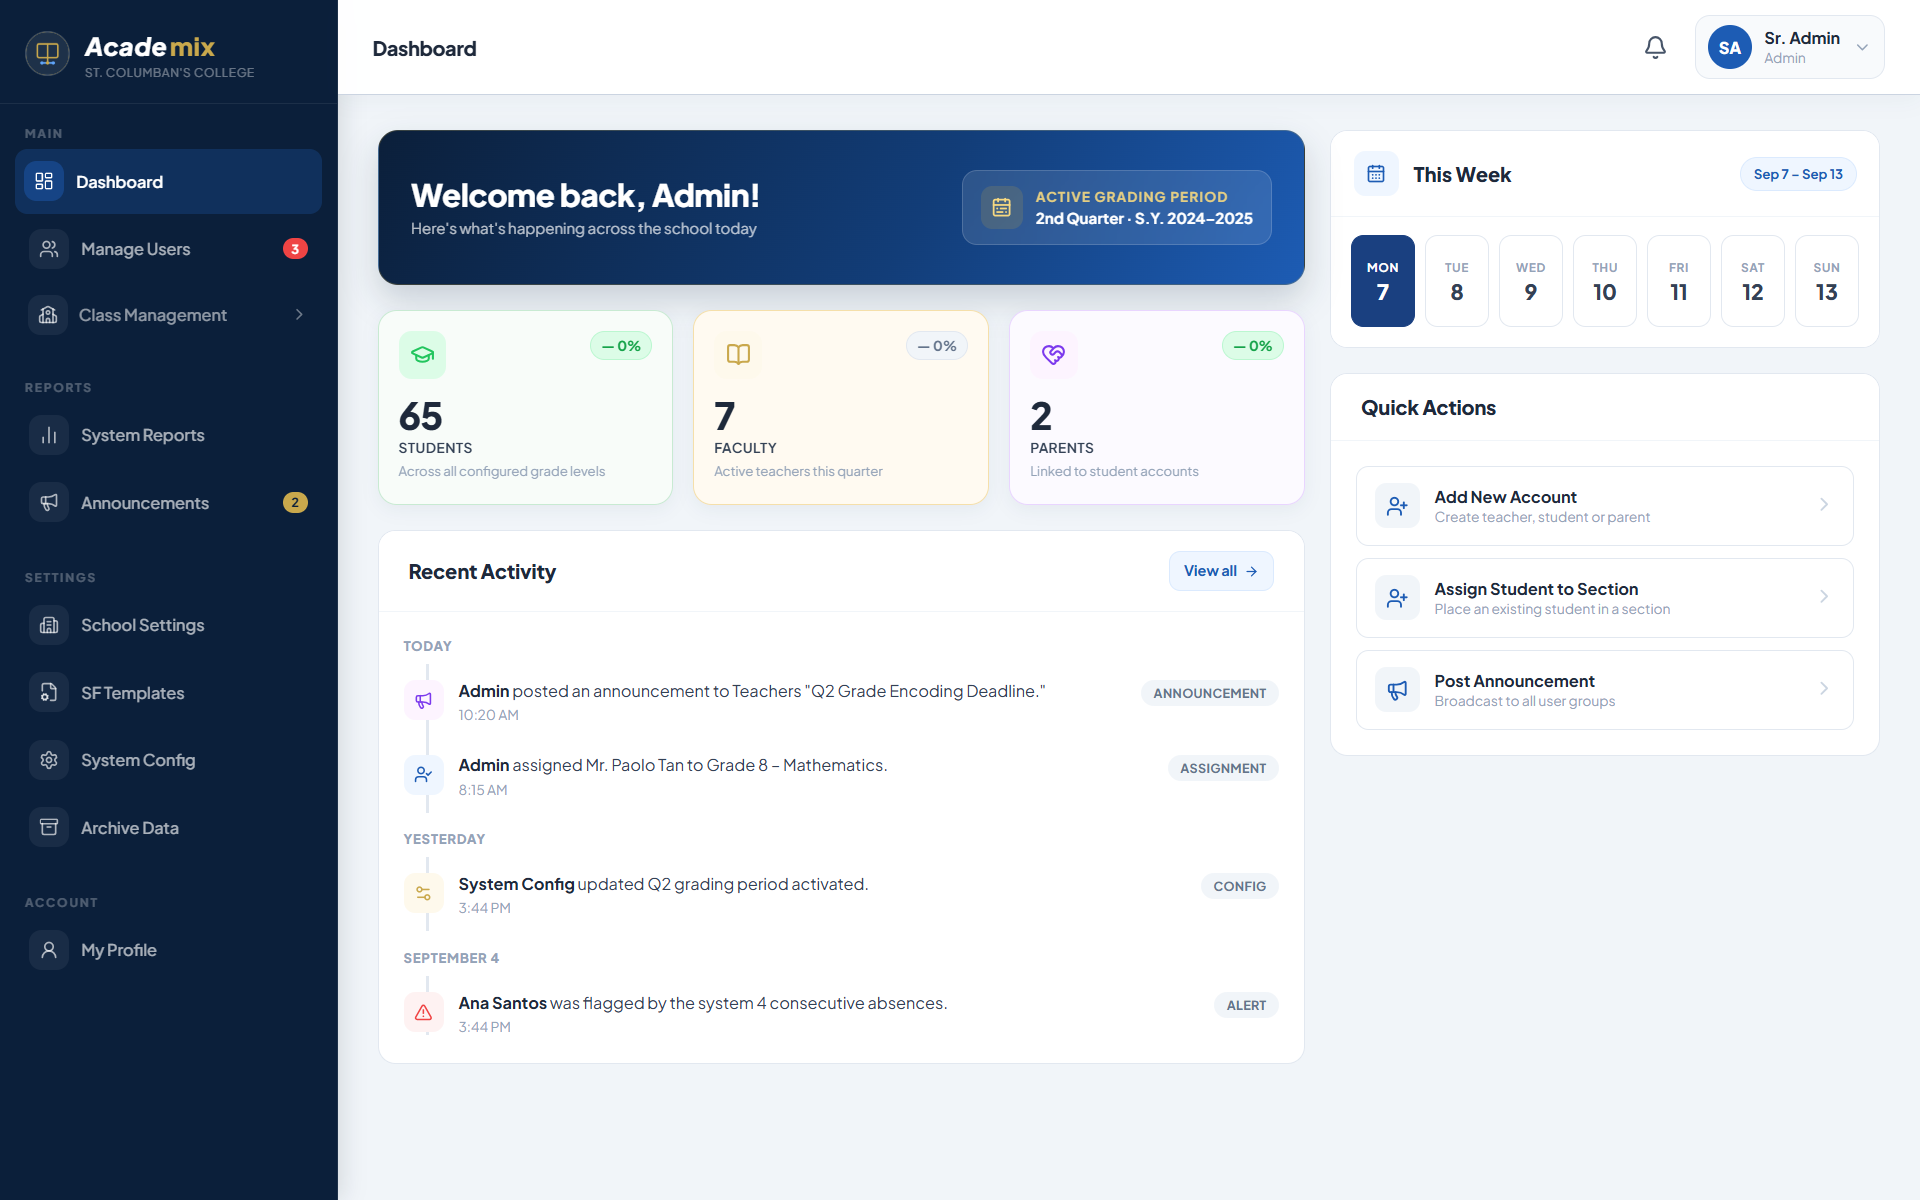
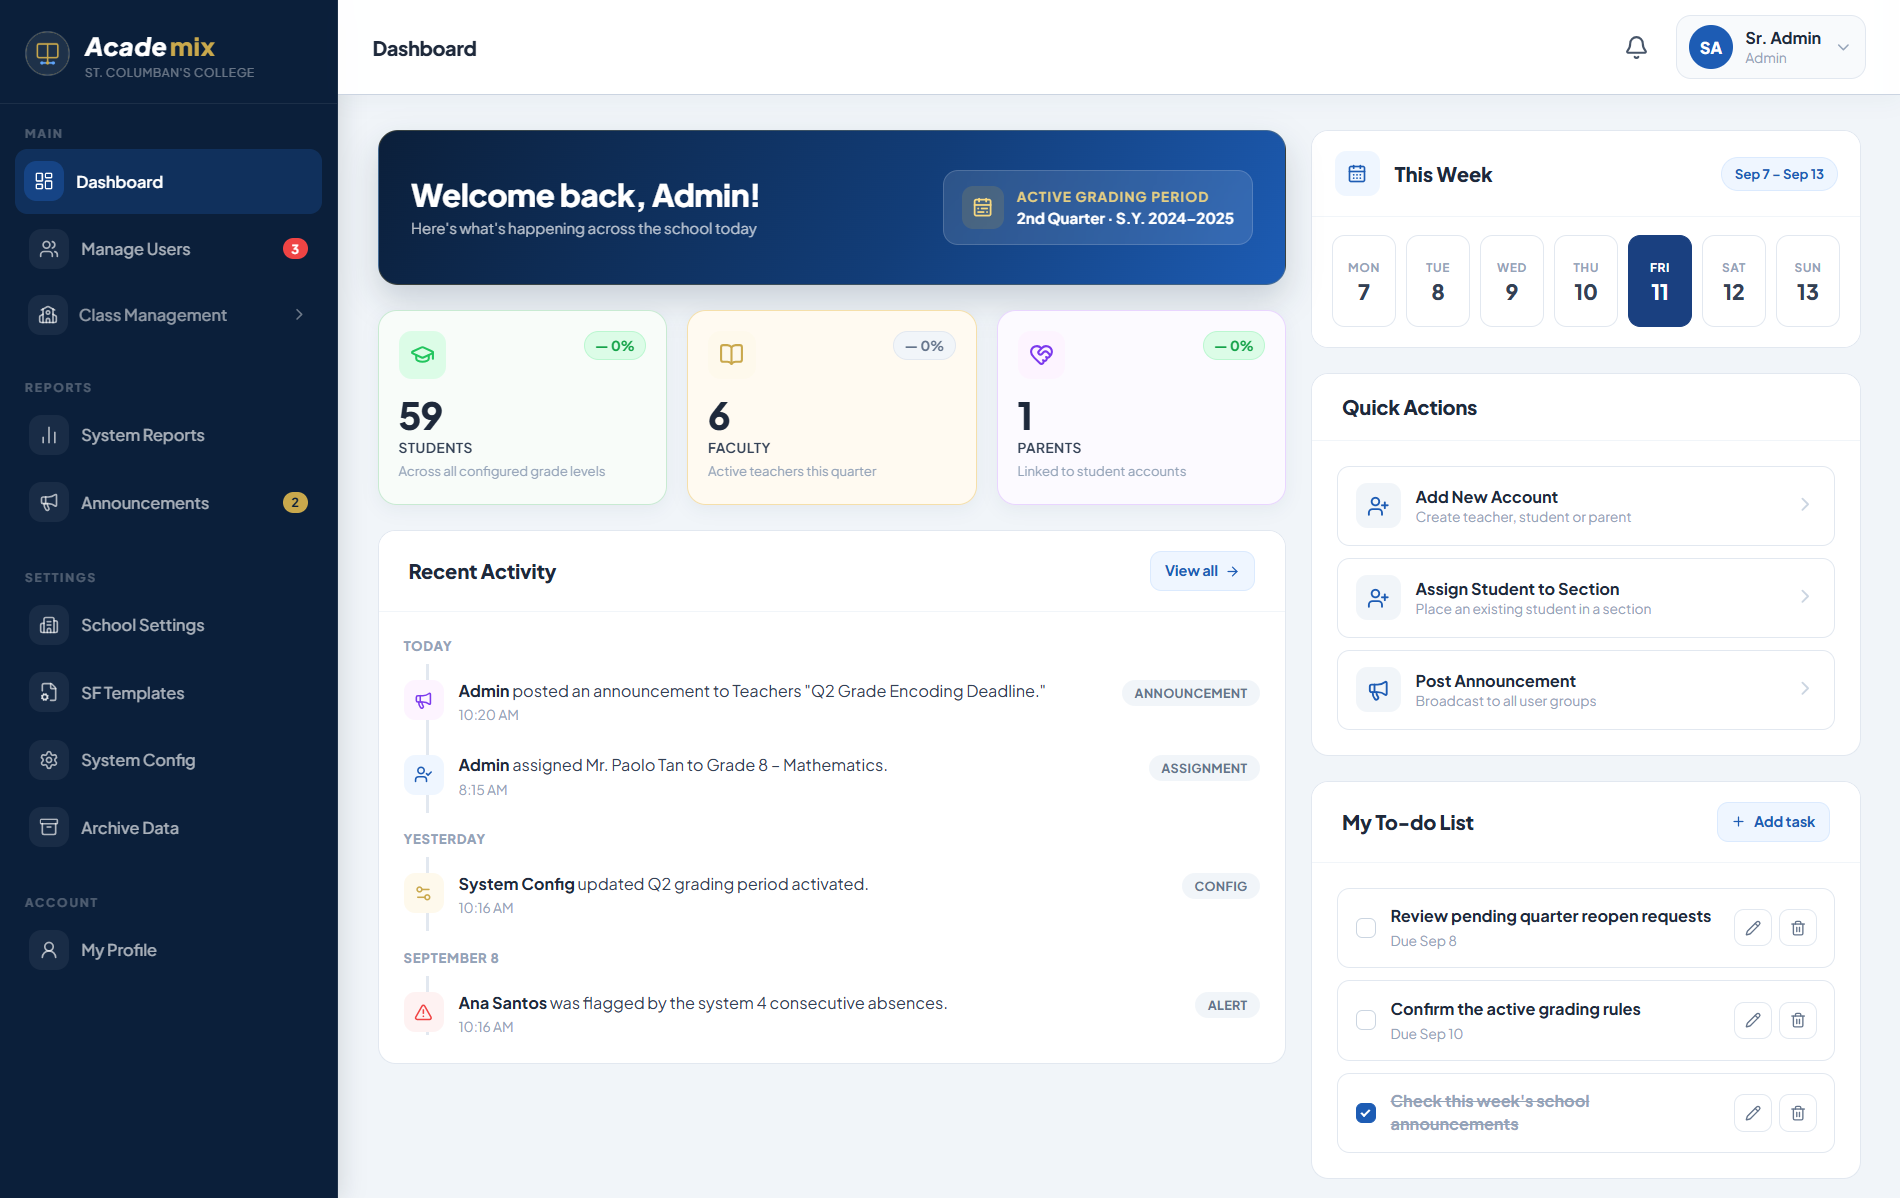
fix(ui): align Academix branding and dashboard visuals
- Standardize branding markup and typography across pages
- Consolidate dashboard fade-up animations
- Update onboarding dashboard preview images

diff --git a/views/onboarding/edugnay-school-onboarding.html b/views/onboarding/edugnay-school-onboarding.html
@@ -7,7 +7,7 @@
   <link rel="icon" href="../../assets/images/edUgnay-logo-circle.png" />
   <link rel="preconnect" href="https://fonts.googleapis.com" />
   <link rel="preconnect" href="https://fonts.gstatic.com" crossorigin />
-  <link href="https://fonts.googleapis.com/css2?family=Plus+Jakarta+Sans:wght@400;500;600;700;800&display=swap" rel="stylesheet">
+  <link href="https://fonts.googleapis.com/css2?family=Plus+Jakarta+Sans:ital,wght@0,200..800;1,200..800&display=swap" rel="stylesheet">
   <link rel="stylesheet" href="../../assets/css/styles.css">
   <link rel="stylesheet" href="../../assets/css/onboarding.css">
   <script src="https://unpkg.com/lucide@latest/dist/umd/lucide.min.js"></script>
@@ -22,7 +22,7 @@
           <div class="system-crest">
             <img src="../../assets/images/edUgnay-logo-circle.png" alt="Academix logo" />
           </div>
-          <div class="system-name">Academix</div>
+          <div class="brand-name">Acade<span>mix</span></div>
         </div>
         <div class="onboarding-brand-body">
           <div class="onboarding-preview" aria-label="Academix portal previews">

diff --git a/assets/css/platform/dashboard.css b/assets/css/platform/dashboard.css
@@ -347,17 +347,18 @@
   white-space: nowrap;
 }
 
-/* Keep the same subtle entrance timing as the other dashboards. */
+/* Match the School Admin summary-card entrance animation. */
 .platform-dashboard .stat-card {
-  animation: platformFadeUp .4s ease both;
+  /* Release transform after the entrance so the shared hover lift takes over. */
+  animation: fadeUp 0.4s ease;
 }
 
-.platform-dashboard .stat-card:nth-child(1) { animation-delay: .05s; }
-.platform-dashboard .stat-card:nth-child(2) { animation-delay: .1s; }
-.platform-dashboard .stat-card:nth-child(3) { animation-delay: .15s; }
+.platform-dashboard .stat-card:nth-child(1) { animation-delay: 0.05s; }
+.platform-dashboard .stat-card:nth-child(2) { animation-delay: 0.10s; }
+.platform-dashboard .stat-card:nth-child(3) { animation-delay: 0.15s; }
 
-@keyframes platformFadeUp {
-  from { opacity: 0; transform: translateY(16px); }
+@keyframes fadeUp {
+  from { opacity: 0; transform: translateY(14px); }
   to { opacity: 1; transform: translateY(0); }
 }
 

diff --git a/views/platform/edugnay-platform-school-accounts.html b/views/platform/edugnay-platform-school-accounts.html
@@ -7,7 +7,7 @@
   <link rel="icon" href="../../assets/images/edUgnay-logo-circle.png" />
   <link rel="preconnect" href="https://fonts.googleapis.com" />
   <link rel="preconnect" href="https://fonts.gstatic.com" crossorigin />
-  <link href="https://fonts.googleapis.com/css2?family=Plus+Jakarta+Sans:wght@400;500;600;700;800&display=swap" rel="stylesheet">
+  <link href="https://fonts.googleapis.com/css2?family=Plus+Jakarta+Sans:ital,wght@0,200..800;1,200..800&display=swap" rel="stylesheet">
   <link rel="stylesheet" href="../../assets/css/styles.css">
   <link rel="stylesheet" href="../../assets/css/modal-system.css">
   <link rel="stylesheet" href="../../assets/css/platform/school-accounts.css">

diff --git a/views/platform/edugnay-platform-dashboard.html b/views/platform/edugnay-platform-dashboard.html
@@ -7,7 +7,7 @@
   <link rel="icon" href="../../assets/images/edUgnay-logo-circle.png" />
   <link rel="preconnect" href="https://fonts.googleapis.com" />
   <link rel="preconnect" href="https://fonts.gstatic.com" crossorigin />
-  <link href="https://fonts.googleapis.com/css2?family=Plus+Jakarta+Sans:wght@400;500;600;700;800&display=swap" rel="stylesheet">
+  <link href="https://fonts.googleapis.com/css2?family=Plus+Jakarta+Sans:ital,wght@0,200..800;1,200..800&display=swap" rel="stylesheet">
   <link rel="stylesheet" href="../../assets/css/styles.css">
   <link rel="stylesheet" href="../../assets/css/platform/dashboard.css">
   <link rel="stylesheet" href="../../assets/css/modal-system.css">

diff --git a/views/platform/edugnay-platform-profile.html b/views/platform/edugnay-platform-profile.html
@@ -7,7 +7,7 @@
   <link rel="icon" href="../../assets/images/edUgnay-logo-circle.png" />
   <link rel="preconnect" href="https://fonts.googleapis.com" />
   <link rel="preconnect" href="https://fonts.gstatic.com" crossorigin />
-  <link href="https://fonts.googleapis.com/css2?family=Plus+Jakarta+Sans:wght@400;500;600;700;800&display=swap" rel="stylesheet">
+  <link href="https://fonts.googleapis.com/css2?family=Plus+Jakarta+Sans:ital,wght@0,200..800;1,200..800&display=swap" rel="stylesheet">
   <link rel="stylesheet" href="../../assets/css/styles.css">
   <link rel="stylesheet" href="../../assets/css/profile-common.css">
   <link rel="stylesheet" href="../../assets/css/platform/profile.css">

diff --git a/views/platform/edugnay-platform-activity.html b/views/platform/edugnay-platform-activity.html
@@ -7,7 +7,7 @@
   <link rel="icon" href="../../assets/images/edUgnay-logo-circle.png" />
   <link rel="preconnect" href="https://fonts.googleapis.com" />
   <link rel="preconnect" href="https://fonts.gstatic.com" crossorigin />
-  <link href="https://fonts.googleapis.com/css2?family=Plus+Jakarta+Sans:wght@400;500;600;700;800&display=swap" rel="stylesheet">
+  <link href="https://fonts.googleapis.com/css2?family=Plus+Jakarta+Sans:ital,wght@0,200..800;1,200..800&display=swap" rel="stylesheet">
   <link rel="stylesheet" href="../../assets/css/styles.css">
   <link rel="stylesheet" href="../../assets/css/admin/activity.css">
   <link rel="stylesheet" href="../../assets/css/modal-system.css">

diff --git a/views/platform/edugnay-platform-notifications.html b/views/platform/edugnay-platform-notifications.html
@@ -7,7 +7,7 @@
   <link rel="icon" href="../../assets/images/edUgnay-logo-circle.png" />
   <link rel="preconnect" href="https://fonts.googleapis.com" />
   <link rel="preconnect" href="https://fonts.gstatic.com" crossorigin />
-  <link href="https://fonts.googleapis.com/css2?family=Plus+Jakarta+Sans:wght@400;500;600;700;800&display=swap" rel="stylesheet">
+  <link href="https://fonts.googleapis.com/css2?family=Plus+Jakarta+Sans:ital,wght@0,200..800;1,200..800&display=swap" rel="stylesheet">
   <link rel="stylesheet" href="../../assets/css/styles.css">
   <link rel="stylesheet" href="../../assets/css/notifications.css">
   <link rel="stylesheet" href="../../assets/css/modal-system.css">

diff --git a/assets/css/styles.css b/assets/css/styles.css
@@ -408,9 +408,7 @@ body.drawer-open .sidebar {
 }
 .brand-name span {
   font-family: 'Plus Jakarta Sans', sans-serif;
-  font-style: normal;
   color: var(--gold);
-  margin-left: 2px;
 }
 .brand-sub {
   font-size: 9.5px;
@@ -1322,14 +1320,6 @@ body.drawer-open .sidebar {
   height: 100%;
   object-fit: contain;
   display: block;
-}
-
-.system-name {
-  color: var(--white);
-  font-size: 21px;
-  font-weight: 800;
-  letter-spacing: -0.2px;
-  line-height: 1.2;
 }
 
 .login-brand-kicker {

diff --git a/assets/css/admin/dashboard.css b/assets/css/admin/dashboard.css
@@ -345,7 +345,7 @@
 @keyframes fadeUp {
   from {
       opacity: 0;
-      transform: translateY(16px);
+      transform: translateY(14px);
 }
   to {
       opacity: 1;
@@ -1463,17 +1463,6 @@
   #announcementModalBackdrop .compose-footer {
     padding: 12px 16px 16px;
   }
-}
-
-@keyframes fadeUp {
-  from {
-      opacity: 0;
-      transform: translateY(14px);
-}
-  to {
-      opacity: 1;
-      transform: translateY(0);
-}
 }
 
 @keyframes pulse-dot {

diff --git a/index.html b/index.html
@@ -188,7 +188,7 @@
           <img src="./assets/images/edUgnay-logo-circle.png" alt="Academix logo" />
         </div>
         <div class="system-info">
-          <div class="system-name">Academix</div>
+          <div class="brand-name">Acade<span>mix</span></div>
         </div>
       </div>
 
